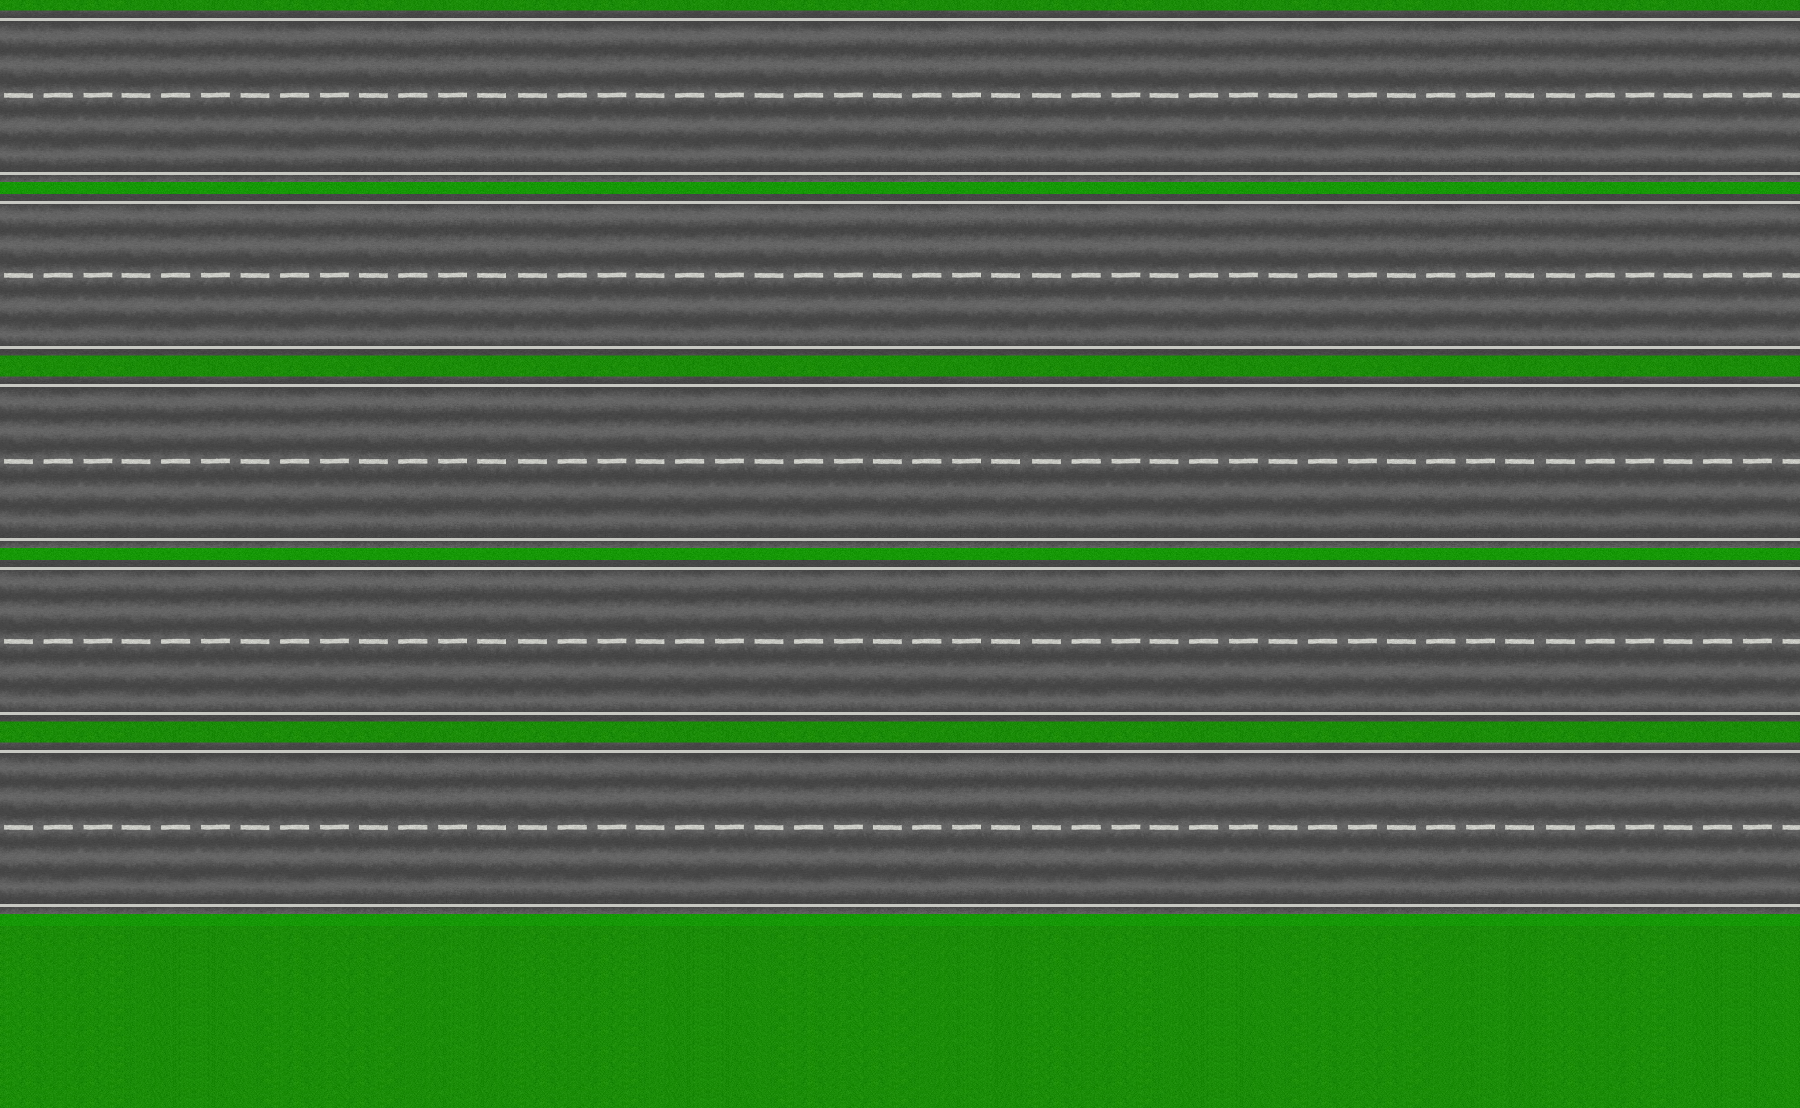
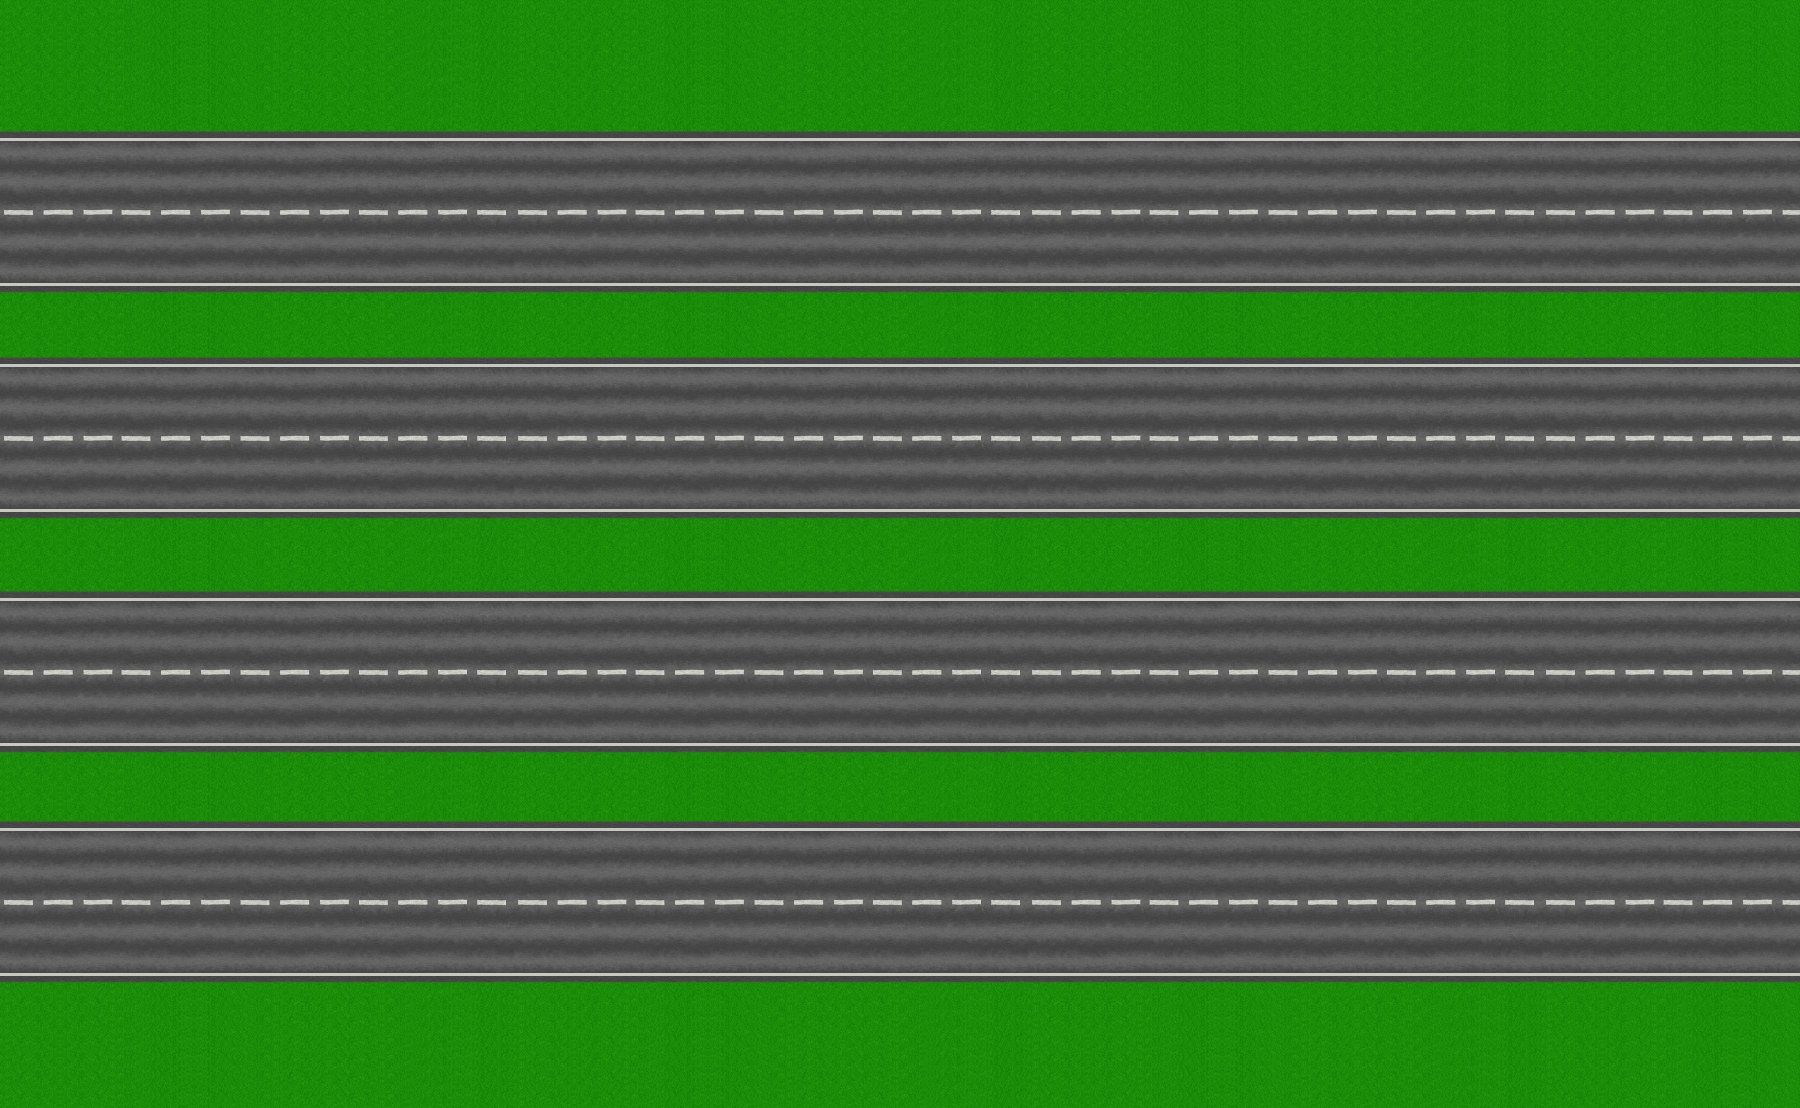
background and car

diff --git a/core/src/com/mygdx/game/GameScreen.java b/core/src/com/mygdx/game/GameScreen.java
@@ -2,6 +2,7 @@ package com.mygdx.game;
 
 import com.badlogic.gdx.Gdx;
 import com.badlogic.gdx.ScreenAdapter;
+import com.badlogic.gdx.Input.Keys;
 import com.badlogic.gdx.graphics.GL20;
 
 public class GameScreen extends ScreenAdapter {
@@ -13,17 +14,37 @@ public class GameScreen extends ScreenAdapter {
 	WorldRenderer worldRenderer;
  
     public GameScreen(FrogGame frogGame) {
+    	
     	world = new World(frogGame); 
     	worldRenderer = new WorldRenderer(frogGame, world);
+    	frog = world.getFrog();
     }
         
     @Override
     public void render(float delta) {
-    	world.update(delta); 
+//    	System.out.println(delta);
+    	update(delta); 
         Gdx.gl.glClearColor(0, 0, 0, 1);
         Gdx.gl.glClear(GL20.GL_COLOR_BUFFER_BIT);
         worldRenderer.render(delta);
     	
     }
+    
+    public void update(float delta) {
+        if(Gdx.input.isKeyPressed(Keys.UP)) {
+            frog.move(Frog.DIRECTION_UP);
+        }
+        if(Gdx.input.isKeyPressed(Keys.DOWN)) {
+            frog.move(Frog.DIRECTION_DOWN);
+        }
+        if(Gdx.input.isKeyPressed(Keys.RIGHT)) {
+            frog.move(Frog.DIRECTION_RIGHT);
+        }
+        if(Gdx.input.isKeyPressed(Keys.LEFT)) {
+        	frog.move(Frog.DIRECTION_LEFT);
+        }
+	}
+    
+    
         
 }

diff --git a/core/src/com/mygdx/game/WorldRenderer.java b/core/src/com/mygdx/game/WorldRenderer.java
@@ -4,28 +4,31 @@ import com.badlogic.gdx.graphics.Texture;
 import com.badlogic.gdx.graphics.g2d.SpriteBatch;
 import com.badlogic.gdx.math.Vector2;
 
-public class WorldRenderer {
+public class WorldRenderer{
 	
 	FrogGame frogGame;
-	Frog frog;
 	World world;
 	Texture frogImg;
 	SpriteBatch batch;
-	
+	Texture roadImg;
+	Vector2 pos;
 	public WorldRenderer(FrogGame frogGame, World world) {
         this.frogGame = frogGame;
         
         batch = frogGame.batch;
  
         this.world = world;
+        pos = new Vector2 ();
  
         frogImg = new Texture("frog.png");
+        roadImg = new Texture("road.png");
     }
 	
 	public void render(float delta) {
-		frog = new Frog(100,100);
+		
         batch.begin();
-        Vector2 pos = (frog.getPosition());
+        batch.draw(roadImg, 0,0,1200,600 );
+        pos = world.getFrog().getPosition();
         batch.draw(frogImg, pos.x, pos.y);
         batch.end();
         

diff --git a/core/src/com/mygdx/game/World.java b/core/src/com/mygdx/game/World.java
@@ -10,25 +10,11 @@ public class World {
 	World(FrogGame frogGame){
 		this.frogGame = frogGame;
 		
-		frog = new Frog(100,100);
+		frog = new Frog(frogGame.WIDTH/2, 0);
 	}
 	
 	Frog getFrog(){
 		return frog;
 	}
 	
-	public void update(float delta) {
-        if(Gdx.input.isKeyPressed(Keys.UP)) {
-            frog.move(Frog.DIRECTION_UP);
-        }
-        if(Gdx.input.isKeyPressed(Keys.DOWN)) {
-            frog.move(Frog.DIRECTION_DOWN);
-        }
-        if(Gdx.input.isKeyPressed(Keys.RIGHT)) {
-            frog.move(Frog.DIRECTION_RIGHT);
-        }
-        if(Gdx.input.isKeyPressed(Keys.LEFT)) {
-            frog.move(Frog.DIRECTION_LEFT);
-        }
-	}
 }

diff --git a/core/src/com/mygdx/game/FrogGame.java b/core/src/com/mygdx/game/FrogGame.java
@@ -5,7 +5,8 @@ import com.badlogic.gdx.graphics.g2d.SpriteBatch;
 
 public class FrogGame extends Game {
 	public SpriteBatch batch;
-	
+	public static int HEIGHT = 600;
+	public static int WIDTH = 1200;
 	@Override
 	public void create () {
 		batch = new SpriteBatch();
@@ -15,6 +16,7 @@ public class FrogGame extends Game {
 	public void render () {
 	    super.render();
 	}
+	 
 	
 	@Override
 	public void dispose () {

diff --git a/desktop/src/com/mygdx/game/desktop/DesktopLauncher.java b/desktop/src/com/mygdx/game/desktop/DesktopLauncher.java
@@ -7,8 +7,8 @@ import com.mygdx.game.FrogGame;
 public class DesktopLauncher {
     public static void main (String[] arg) {
         LwjglApplicationConfiguration config = new LwjglApplicationConfiguration();
-        config.width = 900;
-        config.height = 500;
+        config.width = FrogGame.WIDTH;
+        config.height = FrogGame.HEIGHT;
         new LwjglApplication(new FrogGame(), config);
     }
 }

diff --git a/core/src/com/mygdx/game/CarRenderer.java b/core/src/com/mygdx/game/CarRenderer.java
@@ -1,0 +1,17 @@
+package com.mygdx.game;
+
+import com.badlogic.gdx.graphics.Texture;
+import com.badlogic.gdx.graphics.g2d.SpriteBatch;
+
+public class CarRenderer {
+	
+	Texture carImg;
+	SpriteBatch batch;
+	
+	public CarRenderer(SpriteBatch batch){
+		this.batch = batch;
+		carImg = new Texture("car.png");
+	}
+}
+
+

diff --git a/core/src/com/mygdx/game/Car.java b/core/src/com/mygdx/game/Car.java
@@ -1,0 +1,20 @@
+package com.mygdx.game;
+
+import com.badlogic.gdx.math.Vector2;
+
+public class Car {
+	
+	
+	public static Vector2 position;
+	public void car(){
+		
+	}
+	
+	public Car(int x, int y){
+		position = new Vector2(x,y);
+	}
+	
+	public Vector2 getPosition(){
+		return position;
+	}
+}

diff --git a/core/src/com/mygdx/game/Frog.java b/core/src/com/mygdx/game/Frog.java
@@ -14,9 +14,9 @@ public class Frog {
 	}
 	private static final int[][] DIR_OFFSETS = new int[][]{
 		{0,0},
-		{0,-1},
-		{1,0},
 		{0,1},
+		{1,0},
+		{0,-1},
 		{-1,0}	
 	};
 	public static final int DIRECTION_UP = 1;
